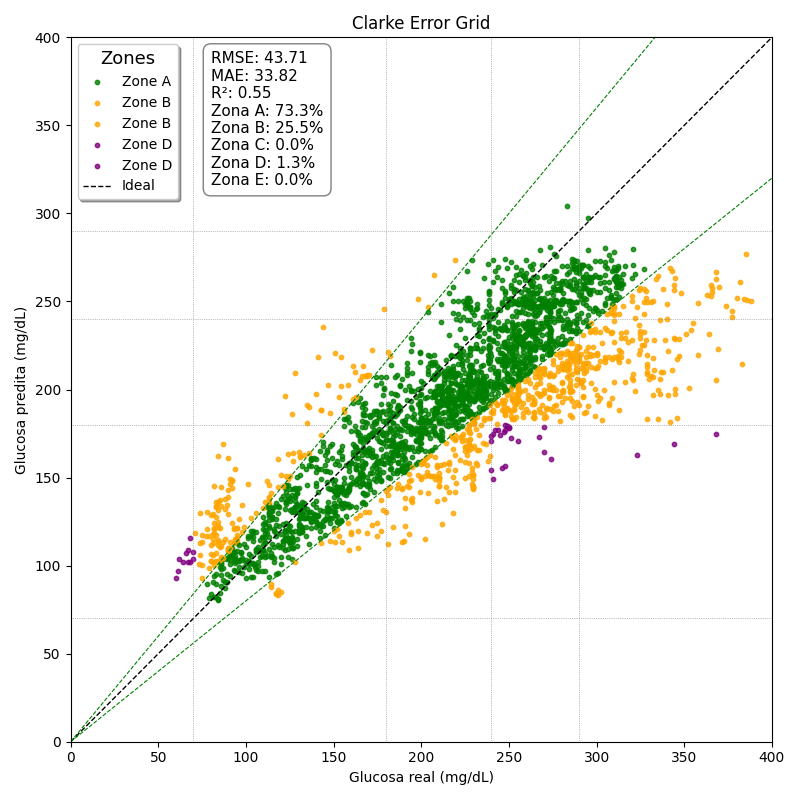
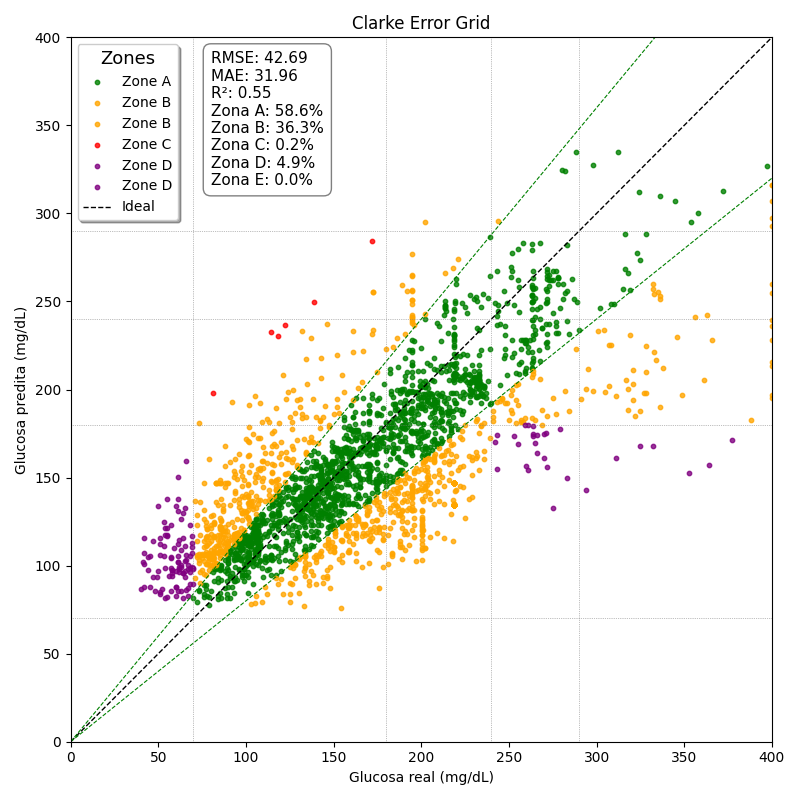
Funciona :)

diff --git a/models/offline_model.py b/models/offline_model.py
@@ -3,8 +3,9 @@ from utils.data_processing import process_all_data
 from models.training import train_model
 from utils.evaluation import plot_glucose_timeseries
 from utils.clarke import plot_clarke_error
-from utils.filter import apply_kalman_to_all_data
+from utils.filter import apply_kalman_to_data
 from sklearn.metrics import mean_absolute_error, r2_score
+from utils.data_loader import load_and_prepare_data
 import pandas as pd
 import matplotlib.pyplot as plt
 import os
@@ -19,40 +20,44 @@ def shift_target(df, horizon):
 
 
 def train_and_evaluate_offline(base_path):
-    test_data, train_data = load_patient_data(base_path)
-    # Aplicar el filtre de Kalman a totes les dades
-    test_data_filtrat, train_data_filtrat = apply_kalman_to_all_data(test_data, train_data)
-    results = {30: {}, 60: {}}
+    # Load and split the data for each patient
+    prepared_data = load_and_prepare_data(base_path)
 
+    # Apply the Kalman filter to both train and test sets for each patient
+    prepared_data = {
+        patient_id: (
+            apply_kalman_to_data(df_train),
+            apply_kalman_to_data(df_test)
+        )
+        for patient_id, (df_train, df_test) in prepared_data.items()
+    }
+
+    results = {30: {}, 60: {}}
     output_dir = os.path.join("ResultatsTemporals", "grafics_offline")
     os.makedirs(output_dir, exist_ok=True)
 
-    for patient_id in train_data_filtrat.keys():
-        print(f"\n📊 Processant pacient: {patient_id}")
+    for patient_id, (df_train, df_test) in prepared_data.items():
+        print(f"\n📊 Processing patient: {patient_id}")
 
-        processed_test, processed_train = process_all_data(
-            {patient_id: test_data_filtrat[patient_id]},
-            {patient_id: train_data_filtrat[patient_id]}
-        )
-
-        df_train = processed_train[patient_id]
-        df_test = processed_test[patient_id]
-
+        # Convert categorical variable 'time_of_day' into dummy variables
         df_train = pd.get_dummies(df_train, columns=['time_of_day'])
         df_test = pd.get_dummies(df_test, columns=['time_of_day'])
 
         for horizon in [30, 60]:
-            print(f"🕒 Predicció a {horizon} minuts")
+            print(f"🕒 Prediction for {horizon} minutes ahead")
 
+            # Shift the target column for the prediction horizon
             df_train_shifted = shift_target(df_train, horizon)
             df_test_shifted = shift_target(df_test, horizon)
 
+            # Split into features (X) and target (Y)
             X_train = df_train_shifted.drop(columns=["glucose_level", "glucose_target", "datetime"])
             Y_train = df_train_shifted["glucose_target"]
 
             X_test = df_test_shifted.drop(columns=["glucose_level", "glucose_target", "datetime"])
             Y_test = df_test_shifted["glucose_target"]
 
+            # Train the model and get predictions
             model, x_scaler, rmse, Y_pred = train_model(X_train, Y_train, X_test, Y_test)
             mae = mean_absolute_error(Y_test, Y_pred)
             r2 = r2_score(Y_test, Y_pred)
@@ -60,19 +65,17 @@ def train_and_evaluate_offline(base_path):
             print(f"✅ {patient_id} | Horizon {horizon} min → RMSE: {rmse:.2f} | MAE: {mae:.2f} | R²: {r2:.2f}")
             results[horizon][patient_id] = {"rmse": rmse, "mae": mae, "r2": r2}
 
-            # Gràfics
-            # ➕ Glucose Time Series
-            datetimes = df_test_shifted["datetime"]  # Ens assegurem que estigui alineat
+            # Generate and save plots
+            datetimes = df_test_shifted["datetime"]
             timeseries_filename = os.path.join(output_dir, f"glucose_timeseries_{patient_id}_h{horizon}min.png")
             plot_glucose_timeseries(Y_test, Y_pred, datetimes, patient_id, horizon, filename=timeseries_filename)
-            print(f"📉 Time series guardat a: {timeseries_filename}")
+            print(f"📉 Time series saved at: {timeseries_filename}")
 
-            # ➕ Clarke Error Grid
             clarke_filename = f"clarke_{patient_id}_h{horizon}min.png"
             plot_clarke_error(Y_test, Y_pred, filename=clarke_filename)
-            print(f"📈 Clarke guardat a: {os.path.join(output_dir, clarke_filename)}")
+            print(f"📈 Clarke error saved at: {os.path.join(output_dir, clarke_filename)}")
 
-    # Mitjanes finals
+    # Compute average metrics across all patients
     for horizon in [30, 60]:
         all_rmses = [v["rmse"] for v in results[horizon].values()]
         all_maes = [v["mae"] for v in results[horizon].values()]
@@ -82,11 +85,11 @@ def train_and_evaluate_offline(base_path):
         avg_mae = sum(all_maes) / len(all_maes)
         avg_r2 = sum(all_r2s) / len(all_r2s)
 
-        print(f"\n📈 Resultats horitzó {horizon} minuts:")
+        print(f"\n📈 Results for horizon {horizon} minutes:")
         for pid, metrics in results[horizon].items():
-            print(f"  Pacient {pid}: RMSE = {metrics['rmse']:.2f}, MAE = {metrics['mae']:.2f}, R² = {metrics['r2']:.2f}")
-        print(f"  ➕ PROMIG RMSE: {avg_rmse:.2f}")
-        print(f"  ➕ PROMIG MAE: {avg_mae:.2f}")
-        print(f"  ➕ PROMIG R²: {avg_r2:.2f}")
+            print(f"  Patient {pid}: RMSE = {metrics['rmse']:.2f}, MAE = {metrics['mae']:.2f}, R² = {metrics['r2']:.2f}")
+        print(f"  ➕ AVERAGE RMSE: {avg_rmse:.2f}")
+        print(f"  ➕ AVERAGE MAE: {avg_mae:.2f}")
+        print(f"  ➕ AVERAGE R²: {avg_r2:.2f}")
 
     return results

diff --git a/utils/filter.py b/utils/filter.py
@@ -7,54 +7,57 @@ def apply_kalman_to_data(df):
     """
     df_filtered = df.copy()
 
-    # Assegurar-nos que la columna és de tipus float
+    # Make sure the glucose_level column is numeric
     df_filtered["glucose_level"] = df_filtered["glucose_level"].astype(float)
 
-    # Identificar els valors on glucosa és 0
+    # Identify rows where glucose_level is 0
     zero_glucose_mask = df_filtered["glucose_level"] == 0
 
-    # Si no hi ha cap valor zero, no apliquem el filtre
+    # If there are no zero glucose values, return the original DataFrame
     if not zero_glucose_mask.any():
         return df_filtered
 
-    # Definir el filtre de Kalman
+    # Define the Kalman filter
     kalman_filter = KalmanFilter(dim_x=1, dim_z=1)
     
-    # Inicialitzar el filtre
+    # Initialize the state vector
     kalman_filter.x = np.array([0])  # Estimació inicial
     kalman_filter.P *= 1000  # Covariància inicial gran per la incertesa
 
-    # Definir la matriu d'estat
+    # Define the state transition matrix
     kalman_filter.F = np.array([[1]])  # La dinàmica del sistema (assumim que és una constant)
     kalman_filter.H = np.array([[1]])  # Observació (la glucosa mesurada)
 
-    # Matriu de covariància de la mesura
+    # Define the measurement noise covariance
     kalman_filter.R = np.array([[1]])  # Soroll de mesura (potser hauríem de ajustar-ho)
 
-    # Matriu de covariància de control
+    # Define the process noise covariance
     kalman_filter.Q = np.array([[0.1]])  # Soroll del procés
 
     for idx in df_filtered[zero_glucose_mask].index:
-        # Si el valor anterior no és zero, utilitzem-lo com a valor inicial
+        # If the previous value is not available, use 0
         prev_value = df_filtered.loc[idx-1, "glucose_level"] if idx > 0 else 0
         
-        # Definir la mesura
+        # Define the measurement
         measurement = np.array([prev_value])
 
-        # Actualitzar el filtre amb la mesura
+        # Actualize the Kalman filter with the measurement
         kalman_filter.predict()
         kalman_filter.update(measurement)
 
-        # Substituir el valor de glucosa per l'estimació del filtre
+        # Update the DataFrame with the filtered value
         df_filtered.loc[idx, "glucose_level"] = kalman_filter.x[0]
 
     return df_filtered
 
-def apply_kalman_to_all_data(test_data, train_data):
+def apply_kalman_to_all_data(prepared_data):
     """
-    Applies configurated Kalman filter to all data
+    Given a dict {patient: (df_train, df_test)}, apply the Kalman filter
+    only to the df_train part, and return the same structure.
     """
-    test_data_filtrat = {patient: apply_kalman_to_data(df) for patient, df in test_data.items()}
-    train_data_filtrat = {patient: apply_kalman_to_data(df) for patient, df in train_data.items()}
-    
-    return test_data_filtrat, train_data_filtrat
+    filtered = {}
+    for patient_id, (df_train, df_test) in prepared_data.items():
+        df_train_filtered = apply_kalman_to_data(df_train)
+        # leave df_test untouched
+        filtered[patient_id] = (df_train_filtered, df_test)
+    return filtered

diff --git a/utils/datasets.py b/utils/datasets.py
@@ -1,8 +1,6 @@
 import pandas as pd
 import os
-from utils.filter import apply_kalman_to_all_data
 
-# Noms de les columnes
 column_names = [
     "year", "month", "day", "hour", "minute", "second", "glucose_level", "finger_stick", "basal", "bolus",
     "sleep", "work", "stressors", "hypo_event", "illness",
@@ -12,37 +10,27 @@ column_names = [
 
 def load_patient_data(base_path):
     """
-    Funció per carregar les dades dels pacients a partir de fitxers CSV.
-    Per cridar aquesta funció cal posar:
-
-    Args:
-        base_path = r'data/raw'  
-        
-    Returns:
-       test_data, train_data = load_patient_data(base_path)
+    Read all data for training patients from CSV files in the given directory.
     """
-    test_data = {}
     train_data = {}
-    
+
     for root, dirs, files in os.walk(base_path):
         for file in files:
-            if file.endswith(".csv"):
+            if file.endswith(".csv") and "_train" in file.lower():
                 file_path = os.path.join(root, file)
-                key = file.split("_")[0]  # Tant per train com test
+                key = file.split("_")[0]  # Assumeix que el nom del fitxer comença amb ID del pacient
 
                 try:
                     df = pd.read_csv(file_path, sep=';', header=None, decimal=",")
                     if df.shape[1] == len(column_names):
                         df.columns = column_names
-                        if "_test" in file.lower():     # Punt 3 aplicat aquí
-                            test_data[key] = df
-                        elif "_train" in file.lower():  # Punt 3 aplicat aquí
-                            train_data[key] = df
+                        train_data[key] = df
                     else:
                         print(f"[WARN] Columnes inesperades a {file_path}: {df.shape[1]} columnes")
                 except Exception as e:
                     print(f"[ERROR] Carregant {file_path}: {e}")
-    return test_data, train_data
+
+    return train_data
 
 
 

diff --git a/utils/data_loader.py b/utils/data_loader.py
@@ -1,16 +1,33 @@
+from sklearn.model_selection import train_test_split
+import pandas as pd
 from utils.datasets import load_patient_data
 from utils.data_processing import process_all_data
 
-def load_and_prepare_data(base_path):
-    test_data, train_data = load_patient_data(base_path)
-    processed_test_data, processed_train_data = process_all_data(test_data, train_data)
 
-    # Separar X i Y
-    X_train = processed_train_data.drop(columns=['glucose_level', 'datetime'])
-    Y_train = processed_train_data['glucose_level']
+def load_and_prepare_data(base_path, test_size=0.2):
+    """
+    Load patient CSVs, apply all feature engineering (including datetime),
+    then split each patient's data into train/test by time (no shuffle).
+    Returns a dict: {patient_id: (df_train, df_test)}
+    """
+    raw_data = load_patient_data(base_path)
+    prepared_data = {}
 
-    X_test = processed_test_data.drop(columns=['glucose_level', 'datetime'])
-    Y_test = processed_test_data['glucose_level']
+    for patient_id, df in raw_data.items():
+        # 1) Apply ALL preprocessing (datetime + features)
+        processed = process_all_data({patient_id: df})[patient_id]
 
-    return X_train, Y_train, X_test, Y_test
+        # 2) Now split chronologically (shuffle=False) into train/test
+        df_train, df_test = train_test_split(
+            processed,
+            test_size=test_size,
+            shuffle=False,
+            random_state=42,
+        )
+
+        prepared_data[patient_id] = (df_train, df_test)
+
+    return prepared_data
+
+
 

diff --git a/utils/data_processing.py b/utils/data_processing.py
@@ -1,19 +1,14 @@
 from utils.datasets import load_patient_data
 from utils.features import add_all_features
 
-def process_all_data(test_data, train_data):
-    """Aplica totes les transformacions a les dades (test i train) per cada pacient."""
-    processed_test_data = {}
+def process_all_data(train_data):
+    """
+    Apply all transformations to train data.
+    """
     processed_train_data = {}
-
-    # Processar les dades de test
-    for patient_id, df in test_data.items():
-        df = add_all_features(df)  # Aplica totes les transformacions
-        processed_test_data[patient_id] = df
-
-    # Processar les dades d'entrenament
+    
     for patient_id, df in train_data.items():
         df = add_all_features(df)  # Aplica totes les transformacions
         processed_train_data[patient_id] = df
 
-    return processed_test_data, processed_train_data
+    return processed_train_data

diff --git a/models/training.py b/models/training.py
@@ -1,7 +1,6 @@
 from sklearn.model_selection import GridSearchCV, RandomizedSearchCV
 from sklearn.metrics import mean_squared_error
 from sklearn.preprocessing import MinMaxScaler, StandardScaler, RobustScaler
-
 import xgboost as xgb
 import numpy as np
 
@@ -46,17 +45,7 @@ def train_model(X_train, Y_train, X_test, Y_test):
         verbose=1,
         n_jobs=-1
     )
-    # RandomizedSearchCV automàtic
-    # random_search = RandomizedSearchCV(
-    #     estimator=model,
-    #     param_distributions=param_grid,
-    #     n_iter=300,  # Prova 100 combinacions aleatòries
-    #     scoring='neg_mean_squared_error',
-    #     cv=5,  # Més robust (abans era 3)
-    #     verbose=1,
-    #     random_state=42,
-    #     n_jobs=-1
-    # )
+
     grid_search.fit(X_train_scaled, Y_train_array)
 
     print(f"Millors paràmetres trobats: {grid_search.best_params_}")

diff --git a/main.py b/main.py
@@ -5,6 +5,11 @@ from tabulate import tabulate
 import pandas as pd
 from datetime import datetime
 from models.offline_model import train_and_evaluate_offline
+import matplotlib
+matplotlib.use('Agg')
+import matplotlib.pyplot as plt
+
+# la resta de imports…
 
 # Mostra totes les columnes i amplia l'ample per consola
 pd.set_option('display.max_columns', None)

diff --git a/README.md b/README.md
@@ -1,0 +1,8 @@
+This models works as follows:
+
+1. datasets.py
+This file reads all the data destined to be used for the training and validation of the model. The function load_patient_data() 
+2. features.py
+3. data_processing.py
+4. data_loader.py
+5. filter.py
